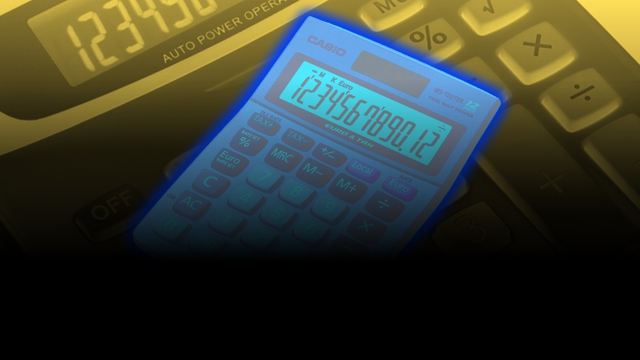
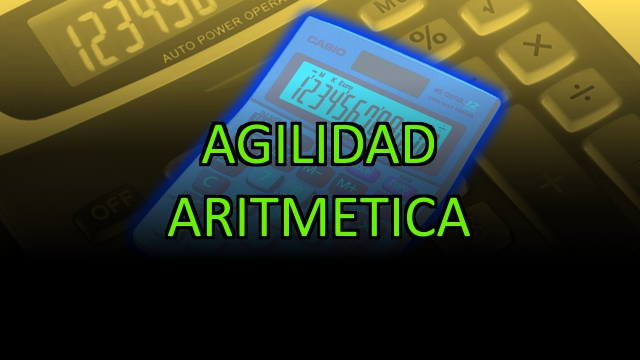
Remodelaciones 2

Changed region(s): [[0.25, 0.5194, 0.75, 0.6722], [0.3125, 0.3361, 0.6875, 0.4889]]

diff --git a/src/app/sala-de-juegos/sala-de-juegos.component.html b/src/app/sala-de-juegos/sala-de-juegos.component.html
@@ -26,13 +26,12 @@
 
 
 
-    <div class="carousel-inner">
+    <div class="carousel-inner rounded">
       <div class="carousel-item active" >
-        <img class="d-block w-100" src="/assets/imagenes/AdivinaElNumero.jpg" alt="Anagrama" height="300" routerLink="/adivina" (click)="irAJuego($event)">
+        <img class="d-block w-100" src="/assets/imagenes/Carousel_Anagrama.jpg" alt="Anagrama" height="300" routerLink="/adivina" (click)="irAJuego($event)">
           <div class="carousel d-none d-md-block">   
 
-              <div class="alert bg-dark text-white" role="alert">
-                  <h4 class="alert-heading"> Anagrama: te crees muy listo? </h4>
+              <div class="carousel-caption d-none d-md-block" role="alert">
                   <hr>
                   Pruebe que tan bueno es develando las palabras con sus letras desordenadas.
               </div> 
@@ -41,11 +40,10 @@
       </div>
 
       <div class="carousel-item ">
-          <img class="d-block w-100" src="/assets/imagenes/AdivinaElNumero.jpg" alt="Adivina" height="300" (click)="irAJuego($event)">
+          <img class="d-block w-100" src="/assets/imagenes/Carousel_AdivinaElNumero.jpg" alt="Adivina" height="300" (click)="irAJuego($event)">
             <div class="carousel d-none d-md-block">
 
-                <div class="alert bg-dark text-white" role="alert">
-                    <h4 class="alert-heading">Adivina el numero: Cual numero sera adivinado?</h4>
+                <div class="carousel-caption d-none d-md-block" role="alert">
                     <hr>
                     <p class="mb-0">adivine cual es el numero secreto que el sistema tiene preparado para usted.</p>
                 </div>    
@@ -54,11 +52,10 @@
         </div>      
 
       <div class="carousel-item ">
-        <img class="d-block w-100" src="/assets/imagenes/Agilidad.jpg" alt="Agilidad" height="300" (click)="irAJuego($event)">
+        <img class="d-block w-100" src="/assets/imagenes/Carousel_Agilidad.jpg" alt="Agilidad" height="300" (click)="irAJuego($event)">
         <div class="carousel d-none d-md-block">   
 
-            <div class="alert bg-dark text-white" role="alert">
-                <h4 class="alert-heading"> Agilidad: solo para matematicos.</h4>
+            <div class="carousel-caption d-none d-md-block" role="alert">
                 <hr>
                 <p class="mb-0">En este juego su oponente sera una operacion simple entre 2 numeros, que puede salir mal?</p>
             </div> 
@@ -67,11 +64,10 @@
       </div>
 
       <div class="carousel-item ">
-          <img class="d-block w-100" src="/assets/imagenes/PPT.jpg" alt="PPT" height="300" (click)="irAJuego($event)">
+          <img class="d-block w-100" src="/assets/imagenes/Carousel_PPT.jpg" alt="PPT" height="300" (click)="irAJuego($event)">
             <div class="carousel d-none d-md-block">   
 
-                <div class="alert bg-dark text-white" role="alert">
-                    <h4 class="alert-heading"> Piedra Papel o Tijera: no hay mucho que decir.</h4>
+                <div class="carousel-caption d-none d-md-block" role="alert">
                     <hr>
                     <p class="mb-0">Logre ganarle al sistema.</p>
                 </div>
@@ -80,11 +76,10 @@
         </div>      
 
       <div class="carousel-item ">
-        <img class="d-block w-100" src="/assets/imagenes/JuegoColores.jpg" alt="JuegoDeColores" height="300" (click)="irAJuego($event)">
+        <img class="d-block w-100" src="/assets/imagenes/Carousel_JuegoColores.jpg" alt="JuegoDeColores" height="300" (click)="irAJuego($event)">
         <div class="carousel d-none d-md-block">  
 
-                <div class="alert bg-success text-white" role="alert">
-                    <h4 class="alert-heading"> VIP - Juego de colores: El peso pesado de la sala de juegos</h4>
+                <div class="carousel-caption d-none d-md-block" role="alert">
                     <hr>
                     <p class="mb-0">Escriba el color que el sistema le pide para ganar este juego.</p>
                 </div> 

diff --git a/src/app/agilidad/agilidad.component.html b/src/app/agilidad/agilidad.component.html
@@ -1,5 +1,5 @@
 <html>
-<body class="centrado">
+<body class="centroDePagina2">
 
 <div class="container">
 <div class="row justify-content-md-center">

diff --git a/src/styles.css b/src/styles.css
@@ -49,7 +49,7 @@ body
 
 .centroDePagina2
 {  
-  margin: 0 auto;
+  margin: 2em auto;
   padding: 2em;
 }
 
